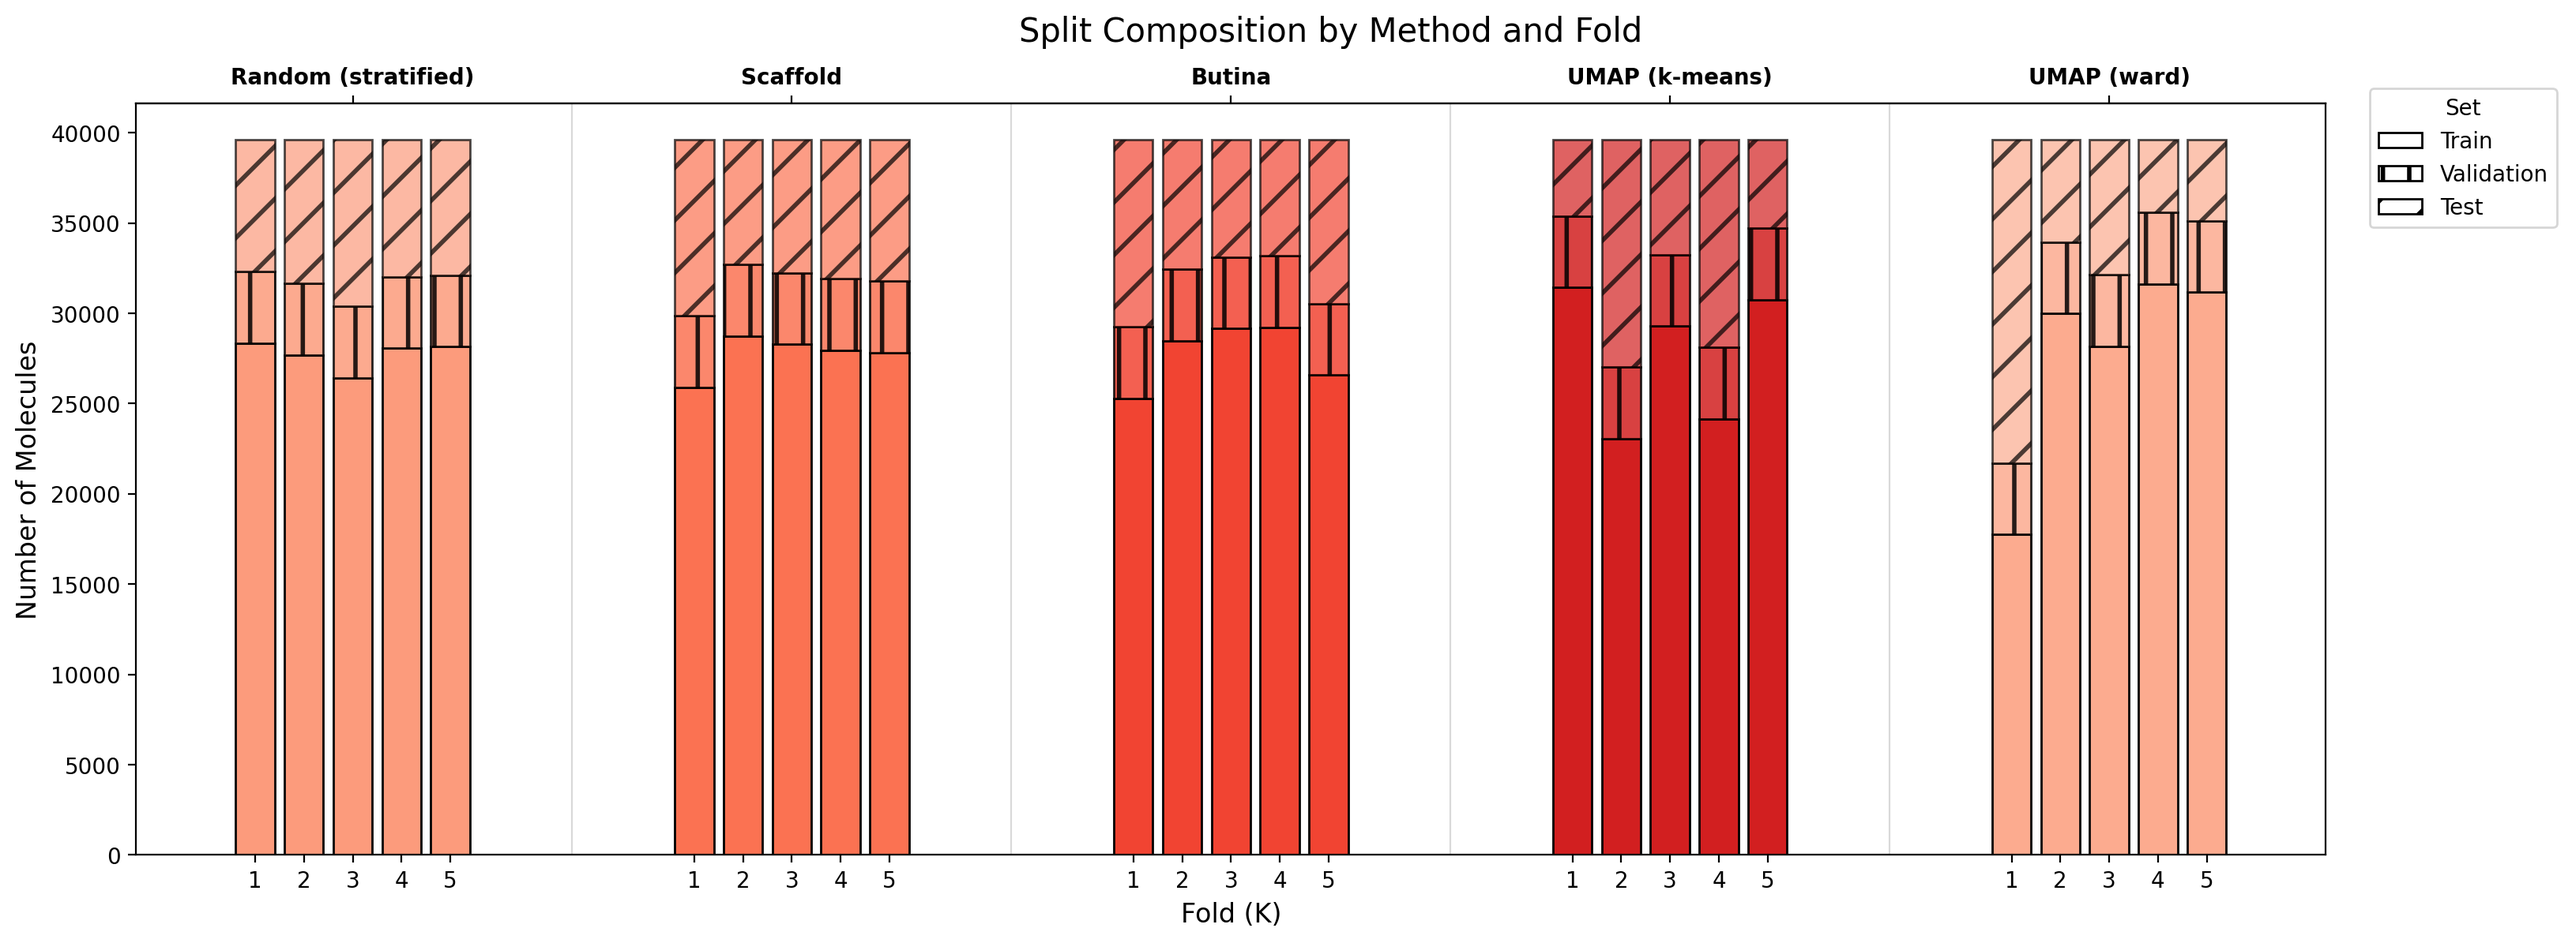
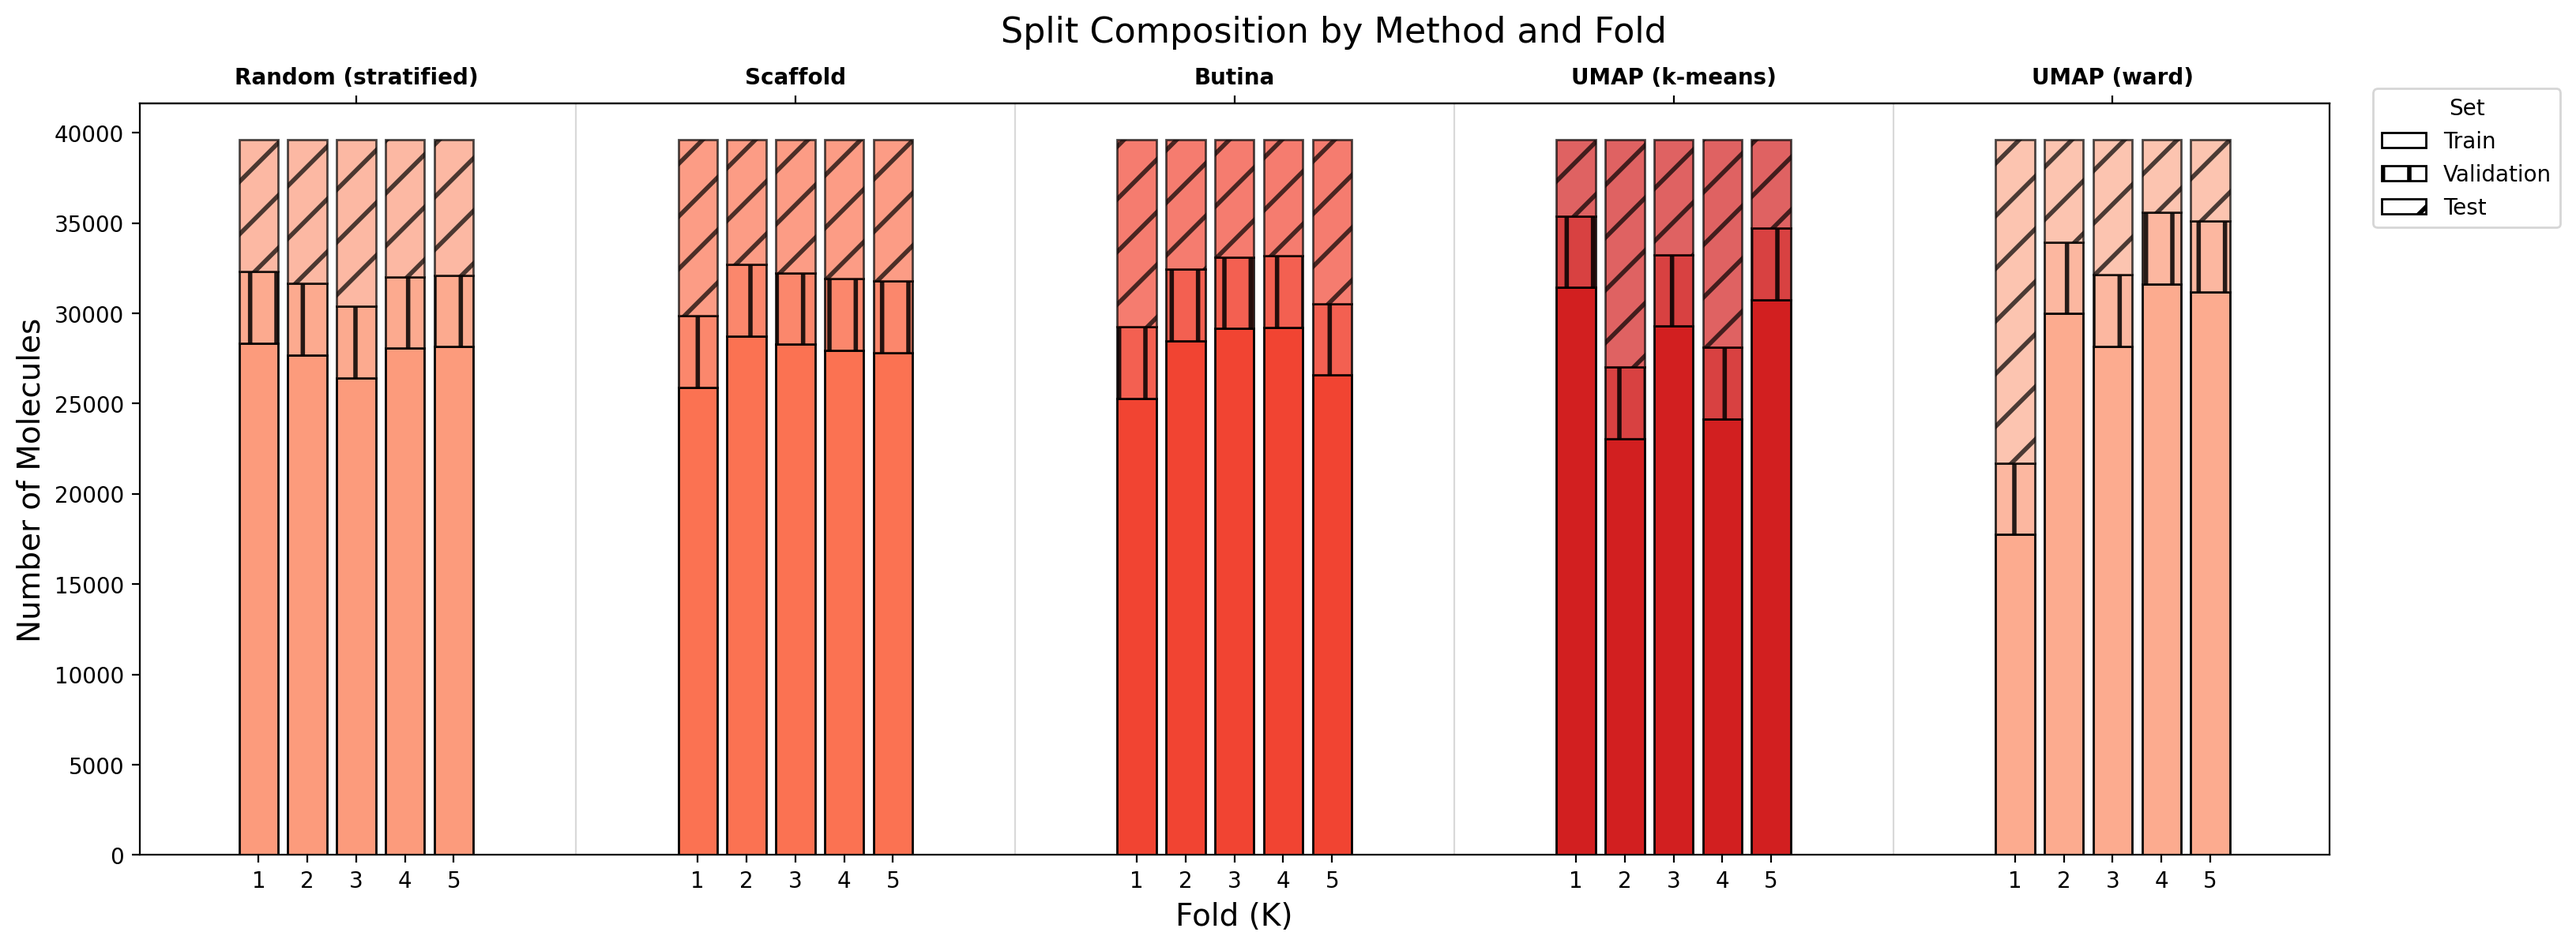
pushing barplotchanges

diff --git a/p1_preprocessing/4 - Data splitting/3 - splits_data_visualization/bar_plot_distributions/bar_plot_split_distr.py b/p1_preprocessing/4 - Data splitting/3 - splits_data_visualization/bar_plot_distributions/bar_plot_split_distr.py
@@ -131,7 +131,7 @@ def make_plot(df: pd.DataFrame, out_path: Path):
     # Bottom x ticks
     ax.set_xticks(x_positions)
     ax.set_xticklabels(labels, rotation=0)
-    ax.set_xlabel("Fold (K)", fontsize=12)
+    ax.set_xlabel("Fold (K)", fontsize=14)
 
     # Top x labels
     ax_top = ax.secondary_xaxis('top')
@@ -140,10 +140,10 @@ def make_plot(df: pd.DataFrame, out_path: Path):
     for t in ax_top.get_xticklabels():
         t.set_fontweight("semibold")
 
-    ax.set_ylabel("Number of Molecules", fontsize=12)
+    ax.set_ylabel("Number of Molecules", fontsize=14)
 
     # Suptitle
-    fig.suptitle("Split Composition by Method and Fold", fontsize=15, y=0.98)
+    fig.suptitle("Split Composition by Method and Fold", fontsize=16, y=0.98)
     plt.subplots_adjust(top=0.90, bottom=0.22, left=0.08, right=0.85)
 
     # Handels for legend

diff --git a/p1_preprocessing/4 - Data splitting/3 - splits_data_visualization/splitting_method_folds_plot/splits_data_vis.py b/p1_preprocessing/4 - Data splitting/3 - splits_data_visualization/splitting_method_folds_plot/splits_data_vis.py
@@ -49,8 +49,8 @@ sns.heatmap(
 ax.set_facecolor("#f8fafc")
 
 # Axes labels and ticks
-ax.set_xlabel("Blocks (each 20% of dataset)")
-ax.set_ylabel("Splits")
+ax.set_xlabel("Blocks (each 20% of dataset)", fontsize=12)
+ax.set_ylabel("Splits", fontsize=12)
 ax.set_xticks(np.arange(FOLDS) + 0.5)
 ax.set_xticklabels([str(i) for i in range(1,FOLDS + 1)], rotation = 0)
 ax.set_yticks(np.arange(FOLDS) + 0.5)
@@ -66,7 +66,7 @@ for i in range(FOLDS):
                 "TEST",
                 ha="center",
                 va="center",
-                fontsize=9,
+                fontsize=11,
                 color="white",
                 fontweight="bold")
 
